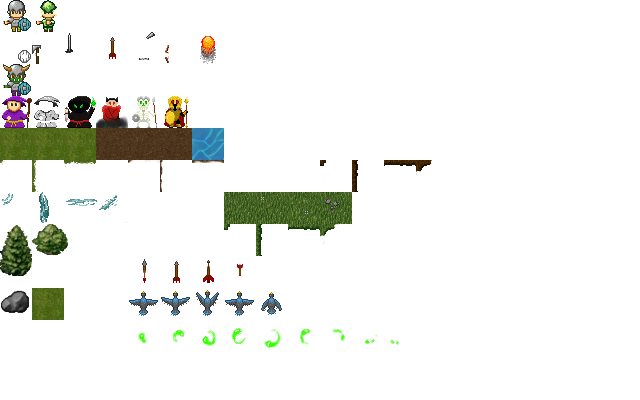
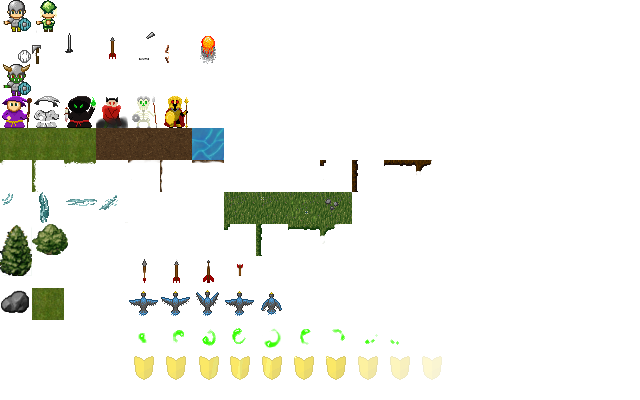
shieldblock animation added, and work on the gui done

Changed region(s): [[0.1875, 0.87, 0.6875, 0.96]]

diff --git a/IronTactics/src/fr/frozen/iron/client/gameStates/Game.java b/IronTactics/src/fr/frozen/iron/client/gameStates/Game.java
@@ -7,6 +7,8 @@ import java.util.ArrayList;
 import java.util.Hashtable;
 import java.util.List;
 
+import org.lwjgl.opengl.Display;
+
 import fr.frozen.game.FontManager;
 import fr.frozen.game.GameObject;
 import fr.frozen.game.GameState;
@@ -41,6 +43,7 @@ import fr.frozen.iron.common.skills.Skill;
 import fr.frozen.iron.common.skills.SkillInfo;
 import fr.frozen.iron.protocol.Protocol;
 import fr.frozen.iron.util.IronConst;
+import fr.frozen.iron.util.IronGL;
 import fr.frozen.iron.util.IronUtil;
 import fr.frozen.network.client.NetEvent;
 import fr.frozen.network.client.NetEventListener;
@@ -68,6 +71,9 @@ public class Game extends GameState implements NetEventListener, MouseListener, 
 	
 	protected PopupList popup;
 	
+	protected ISprite backTex;
+	protected ISprite backTex2;
+	
 	public Game(IGameEngine ge) {
 		super(ge, "game", false, false);
 		netClient = ((IronTactics)gameEngine).getNetClient();
@@ -82,8 +88,8 @@ public class Game extends GameState implements NetEventListener, MouseListener, 
 		popup.addActionListener(this);
 		gui.addComponent(popup);
 		
-		textField = new TextField(5, 580, 500, 20);
-		chatWindow = new ChatWindow(5,505, 500,70);
+		textField = new TextField(5, 575, 500, 20);
+		chatWindow = new ChatWindow(5,500, 500,70);
 		textField.addActionListener(new TextFieldListener());
 		gui.addComponent(textField);
 		gui.addComponent(chatWindow);
@@ -105,6 +111,9 @@ public class Game extends GameState implements NetEventListener, MouseListener, 
 		});
 		
 		gui.addComponent(button);
+		
+		backTex = ISpriteManager.getInstance().getSprite("backTex");
+		backTex2 = ISpriteManager.getInstance().getSprite("popupTex");
 	}
 	
 	protected void requestEndTurn() {
@@ -289,28 +298,79 @@ public class Game extends GameState implements NetEventListener, MouseListener, 
 		}
 		
 		if (worldReady) {
-			renderWorldReady(deltaTime);
-		}
-		gui.render(deltaTime);
-		if (hoveredUnit != null) {
-			hoveredUnit.renderStatsInGui(deltaTime);
+			renderGuiBackground(deltaTime);
+
+			renderCountDown(deltaTime);
+
+			gui.render(deltaTime);
+			if (hoveredUnit != null) {
+				renderStatsInGui(deltaTime, hoveredUnit);
+			} else if (selectedUnit != null) {
+				renderStatsInGui(deltaTime, selectedUnit);
+			}
 		}
 	}
 	
-	protected void renderWorldReady(float deltaTime) {
+	public void renderStatsInGui( float deltaTime, IronUnit unit) {
+		float x,y,w,h;
+		x = IronConst.MAP_WIDTH * IronConst.TILE_WIDTH;
+		x += 10;
+		y = 105;
+		
+		w = Display.getDisplayMode().getWidth() - x - 8;
+		h = 250;
+		
+		drawGuiBox(x, y, w, h);
+		unit.renderStatsInGui(deltaTime, x, y, w, h);
+	}
+	
+	public void drawGuiBox(float x, float y, float w, float h) {
+		backTex2.setColor(0x4e4d4d);
+		backTex2.fillIn(x, y, x + w, y + h);
+
+		IronGL.drawHollowRect(x, y, w, h, 0x0);
+		IronGL.drawHollowRect(x+1, y+1, w-2, h-2, 0x830000);
+		IronGL.drawHollowRect(x+2, y+2, w-4, h-4, 0x0);
+	}
+	
+	protected void renderGuiBackground(float deltaTime) {
+		int screenWidth = Display.getDisplayMode().getWidth();
+		int screenHeight = Display.getDisplayMode().getHeight();
+		
+		int x1 = 0; 
+		int y1 = IronConst.TILE_HEIGHT * IronConst.MAP_HEIGHT;
+		int x2 = IronConst.TILE_WIDTH * IronConst.MAP_WIDTH;
+		int y2 = 0;
+		backTex.fillIn(x1, y1, screenWidth, screenHeight);
+		backTex.fillIn(x2, y2, screenWidth, screenHeight);
+		
+		IronGL.drawLine(x1, y1, x2, y1, 0x0);
+		IronGL.drawLine(x1, y1+1, x2+1, y1+1, 0x830000);
+		IronGL.drawLine(x1, y1+2, x2+2, y1+2, 0x0);
+		
+		IronGL.drawLine(x2, y2, x2, y1, 0x0);
+		IronGL.drawLine(x2+1, y2, x2+1, y1 + 1, 0x830000);
+		IronGL.drawLine(x2+2, y2, x2+2, y1 + 2, 0x0);
+		
+	}
+	
+	protected void renderCountDown(float deltaTime) {
 		float x = 660;
 		float y = 20;
-		FontManager.getFont("DamageFont").setColor(1, 1, 1, 1);
-		FontManager.getFont("DamageFont").glPrint("TimeLeft:", x, y, 0, 1.3f);
 		
-		x += 44;//4 * 11
+		drawGuiBox(x - 5, y - 5, 117, 48);
+		
+		FontManager.getFont("DamageFont").setColor(1, 1, 1, 1);
+		FontManager.getFont("DamageFont").glPrint("TimeLeft:", x, y, 0, 1f);
+
+		x += 40;//4 * 11
 		y += 20;
 		
 		String timeStr = "";
 		if (timeLeftForTurn < 10) {
 			timeStr = "0";
 		}
-		FontManager.getFont("DamageFont").glPrint(timeStr+(int)timeLeftForTurn, x, y, 0, 1.3f);
+		FontManager.getFont("DamageFont").glPrint(timeStr+(int)timeLeftForTurn, x, y, 0, 1f);
 	}
 	
 	@Override

diff --git a/IronTactics/src/fr/frozen/iron/common/entities/IronUnit.java b/IronTactics/src/fr/frozen/iron/common/entities/IronUnit.java
@@ -54,6 +54,7 @@ public class IronUnit extends GameObject implements Mover {
 	protected int id;
 	protected int type;
 	protected int ownerId;
+	protected String name;
 	
 	protected UnitStats stats;
 	protected UnitEquipment equipment;
@@ -247,7 +248,6 @@ public class IronUnit extends GameObject implements Mover {
 	}
 	
 	public void findSprite() {
-		
 		String spriteName = typeNames[type]+"_"+getRaceStr();
 		if (_spriteManager.isSpriteLoaded(spriteName)) {
 			setSprite(ISpriteManager.getInstance().getSprite(spriteName));
@@ -301,6 +301,8 @@ public class IronUnit extends GameObject implements Mover {
 			System.err.println("PROBLEM WHILE GETTING UNIT STATS");
 			return;
 		}
+		
+		name = ic.getAttributeValue(base, "name");
 		
 		int maxHp = Integer.parseInt(ic.getAttributeValue(base, "maxhp"));
 		int strength = Integer.parseInt(ic.getAttributeValue(base, "strength"));
@@ -640,11 +642,11 @@ public class IronUnit extends GameObject implements Mover {
 		}
 	}
 	
-	public void renderStatsInGui(float deltaTime) {
+	public void renderStatsInGui(float deltaTime, float x1, float y1, float w, float h) {
 
 		if (_sprite == null) return;
 		
-		float x = 708;
+		float x = 707;
 		float y = 120;
 		
 		_sprite.draw(x, y);
@@ -667,16 +669,26 @@ public class IronUnit extends GameObject implements Mover {
 		y += 32;
 		renderStatusBars(deltaTime, x, y);
 		
-		x = 650;
+		x = 655;
 		y = 170;
 		Font font = FontManager.getFont("StatsFont");
 		font.setColor(1,1,1);
 		List<String> stats = new ArrayList<String>();
 		
+		if (name != null && !name.equals("")) {
+			Font font2 = FontManager.getFont("Font");
+			font2.setColor(1,1,1);
+			float offx = (w - 4) / 2 - name.length() * font2.getCharWidth() / 2;
+			font2.glPrint(name, x1 + offx, y);
+			
+			y += 25;
+		}
 		stats.add("HP   : "+getStats().getHp()+"/"+getStats().getMaxHp());
-		//if (getStats().getMaxMana() > 0) {
-		stats.add("MP   : "+getStats().getMana()+"/"+getStats().getMaxMana());
-		//}
+		if (getStats().getMaxMana() > 0) {
+			stats.add("MP   : "+getStats().getMana()+"/"+getStats().getMaxMana());
+		} else {
+			stats.add("MP   : -/-");
+		}
 		stats.add("");
 		stats.add("Strength : "+getStats().getStrength());
 		stats.add("Agility  : "+getStats().getAgility());
@@ -724,7 +736,7 @@ public class IronUnit extends GameObject implements Mover {
 	
 	public String toString() {
 		String str = super.toString();
-		str += " id = "+id+" type = "+type+" ownerId = "+ownerId+"\n";
+		str += " id = "+id+" name="+name+" type = "+type+" ownerId = "+ownerId+"\n";
 		str += "can perform skills : ";
 		for (Skill skill : skills) {
 			str += skill.getSkillName()+" ";

diff --git a/IronTactics/src/fr/frozen/iron/util/IronGL.java b/IronTactics/src/fr/frozen/iron/util/IronGL.java
@@ -41,19 +41,43 @@ public class IronGL {
 		GL11.glDisable(GL11.GL_TEXTURE_2D);
 
 		GL11.glPushMatrix();
-		GL11.glTranslatef((int)x, (int)y, 0);
+		GL11.glTranslatef(x, y, 0);
 		
 		GL11.glColor4f(r,g,b,a);
 		
 		GL11.glBegin(GL11.GL_QUADS);
 		{
 			GL11.glVertex2f(0, 0);
-			GL11.glVertex2f(0, h);
-			GL11.glVertex2f(w, h);
 			GL11.glVertex2f(w, 0);
+			GL11.glVertex2f(w, h);
+			GL11.glVertex2f(0, h);
 		}
 
 		GL11.glEnd();
+		GL11.glPopMatrix();
+		
+		GL11.glEnable(GL11.GL_TEXTURE_2D);
+	}
+	
+	public static void drawHollowRect(float x, float y, float w, float h, int icolor) {
+		float []rgb = getRgb(icolor);
+		drawHollowRect(x, y, w, h, rgb[0], rgb[1],  rgb[2], 1);
+	}
+	
+	public static void drawHollowRect(float x, float y, float w, float h, float r, float g, float b, float a) {
+		GL11.glDisable(GL11.GL_TEXTURE_2D);
+
+		GL11.glPushMatrix();
+		GL11.glColor4f(r,g,b,a);
+		
+		GL11.glBegin(GL11.GL_LINE_LOOP);
+		GL11.glVertex2f(x, y);
+		GL11.glVertex2f(x + w, y);
+		GL11.glVertex2f(x + w, y +h);
+		//TODO: lame fix here because of bug not display one pixel to the left ?!
+		GL11.glVertex2f(x - 1, y + h);
+		GL11.glEnd();
+	
 		GL11.glPopMatrix();
 		
 		GL11.glEnable(GL11.GL_TEXTURE_2D);
@@ -74,10 +98,10 @@ public class IronGL {
 		GL11.glEnable(GL11.GL_TEXTURE_2D);
 	}
 	
-	public static void drawLine(float x1, float y1, float x2, float y2) {
+	public static void drawLine(float x1, float y1, float x2, float y2, float r, float g, float b, float a) {
 		GL11.glDisable(GL11.GL_TEXTURE_2D);
 		GL11.glPushMatrix();
-		GL11.glColor4f(.2f,.2f,.2f,1);
+		GL11.glColor4f(r,g,b,a);
 		
 		GL11.glBegin(GL11.GL_LINES);
 		{
@@ -89,5 +113,14 @@ public class IronGL {
 		GL11.glPopMatrix();
 		
 		GL11.glEnable(GL11.GL_TEXTURE_2D);
+	}
+	
+	public static void drawLine(float x1, float y1, float x2, float y2, int color) {
+		float []rgb = getRgb(color);
+		drawLine(x1, y1, x2, y2, rgb[0], rgb[1], rgb[2], 1);
+	}
+	
+	public static void drawLine(float x1, float y1, float x2, float y2) {
+		drawLine(x1,y1,x2,y2,.2f,.2f, .2f, 1);
 	}
 }

diff --git a/IronTactics/src/fr/frozen/iron/client/components/ChatWindow.java b/IronTactics/src/fr/frozen/iron/client/components/ChatWindow.java
@@ -33,7 +33,7 @@ public class ChatWindow extends Component {
 			int x = (int)pos.getX() + PADDING;
 			
 			if (messages.get(i).getPrefix() != null && !messages.get(i).getPrefix().equals("")) {
-				FontManager.getFont("Font").setColor(0f, 0.2f, 1f);
+				FontManager.getFont("Font").setColor(.3f, 0.8f, .3f);
 				FontManager.getFont("Font").glPrint(messages.get(i).getPrefix(), x, y, 0);
 				x += 11 * messages.get(i).getPrefix().length();
 			}

diff --git a/IronTactics/src/fr/frozen/iron/common/entities/particles/ShieldBlockAnimation.java b/IronTactics/src/fr/frozen/iron/common/entities/particles/ShieldBlockAnimation.java
@@ -5,7 +5,7 @@ import fr.frozen.game.ISpriteManager;
 
 public class ShieldBlockAnimation extends AnimatedParticle {
 	public ShieldBlockAnimation(GameState gs, float x, float y) {
-		super(gs, x, y, ISpriteManager.getInstance().getAnimationSequence("healanimation"));
+		super(gs, x, y, ISpriteManager.getInstance().getAnimationSequence("shieldblockanimation"));
 		//TODO : add graphic animation for shield block on spritesheet
 	}
 }

diff --git a/Game Engine/src/fr/frozen/game/SpriteManagerImpl.java b/Game Engine/src/fr/frozen/game/SpriteManagerImpl.java
@@ -172,6 +172,12 @@ public class SpriteManagerImpl extends ISpriteManager {
 				if (attrnode != null) {
 					frameDims[index].setY(Integer.parseInt(attrnode.getNodeValue()));
 				}
+				
+				//TODO : handle different frame durations
+				/*attrnode = attributes.getNamedItem("frameduration");
+				if (attrnode != null) {
+					int duration = Integer.parseInt(attrnode.getNodeValue());
+				}*/
 			}
 		}
 		
